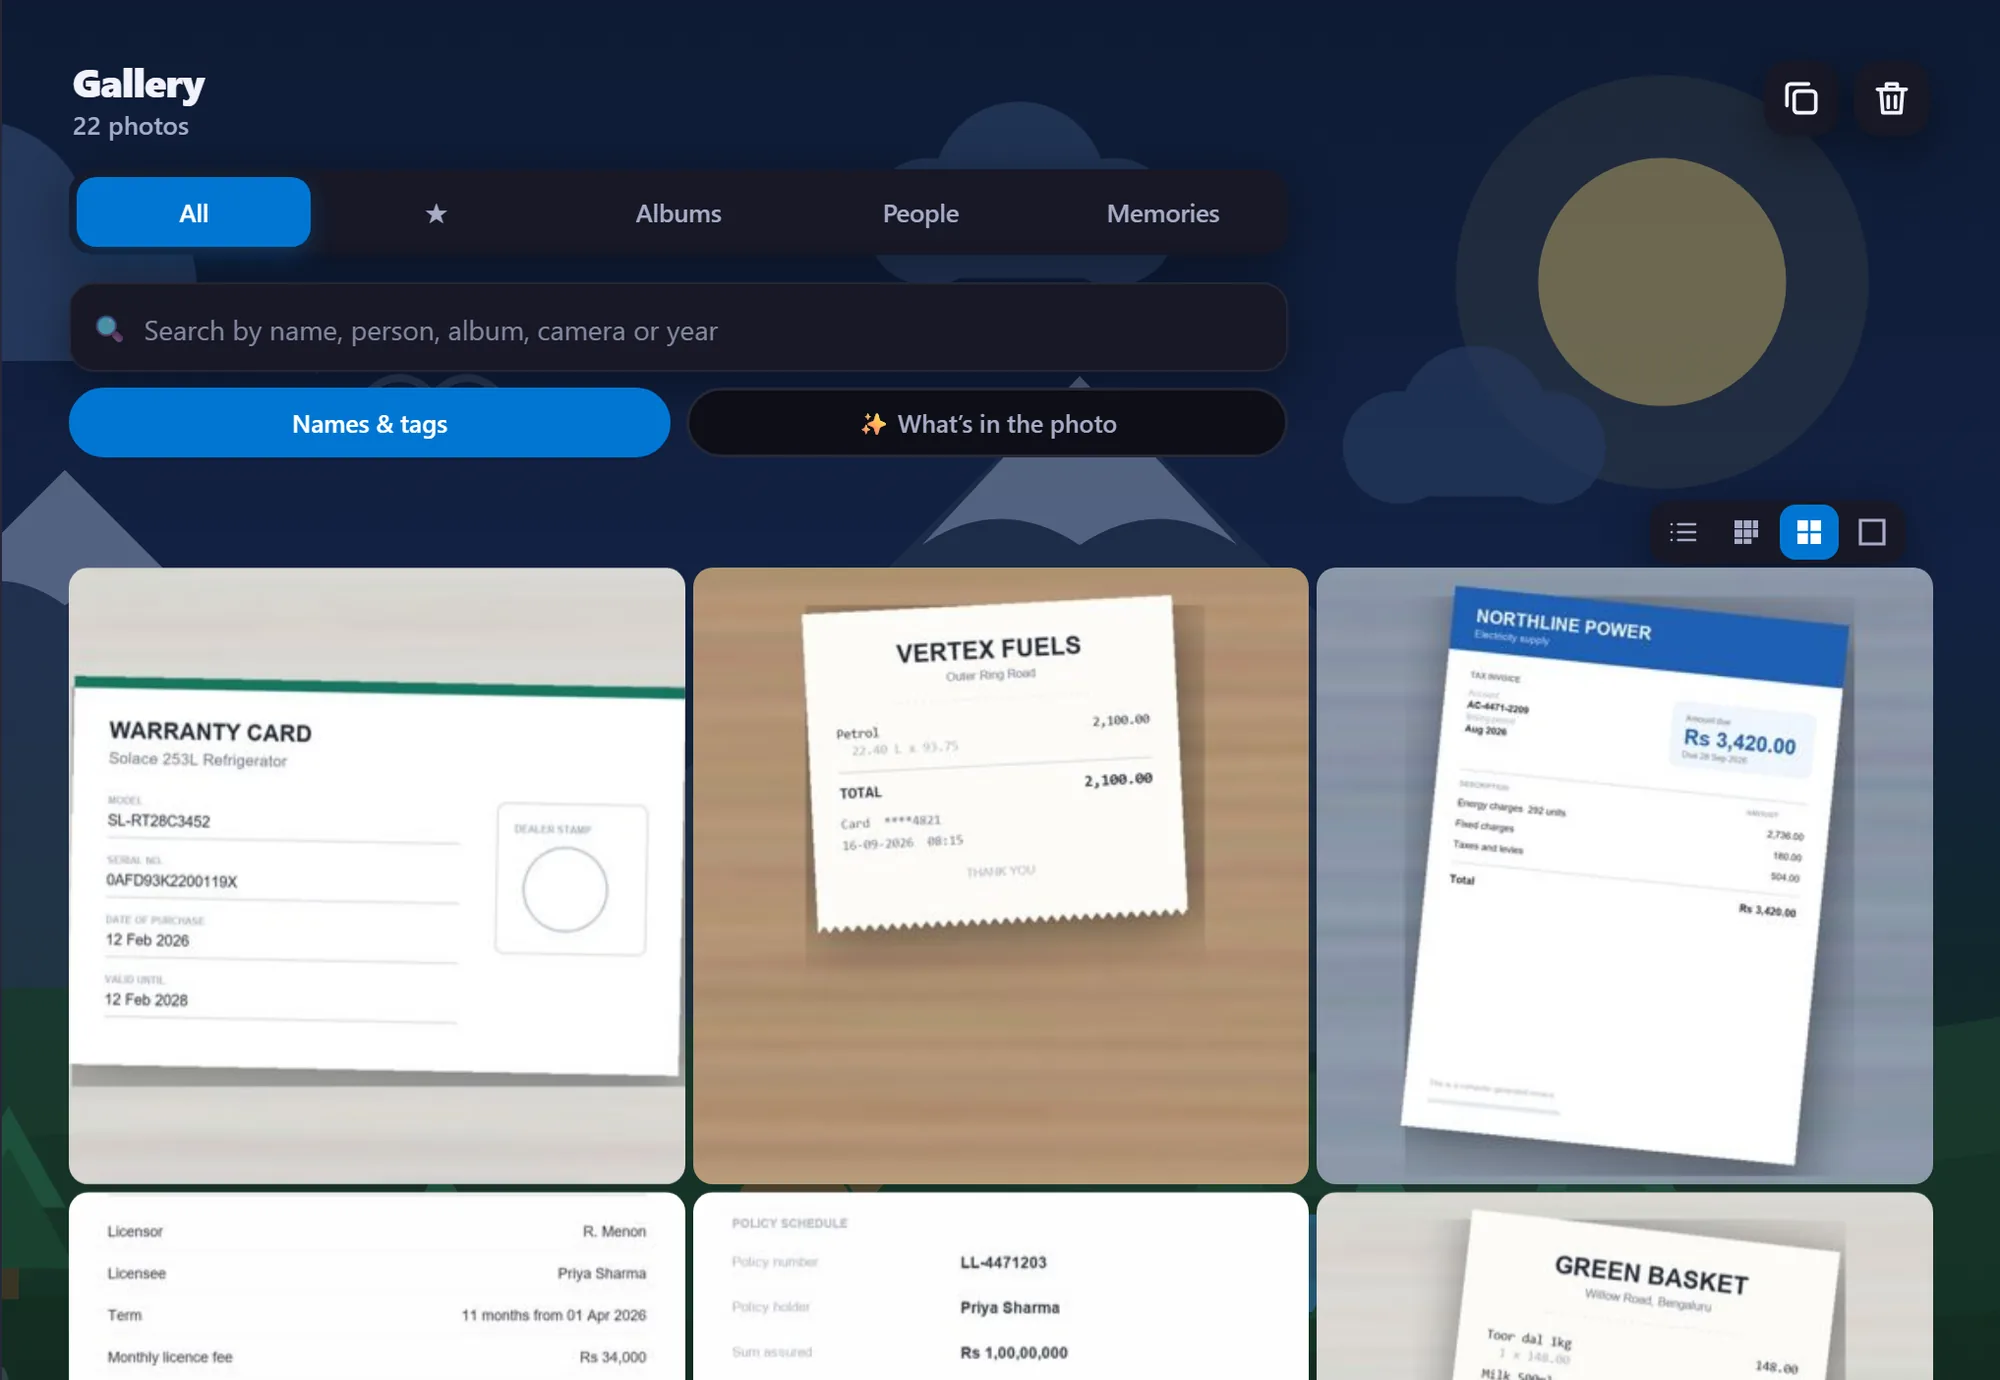
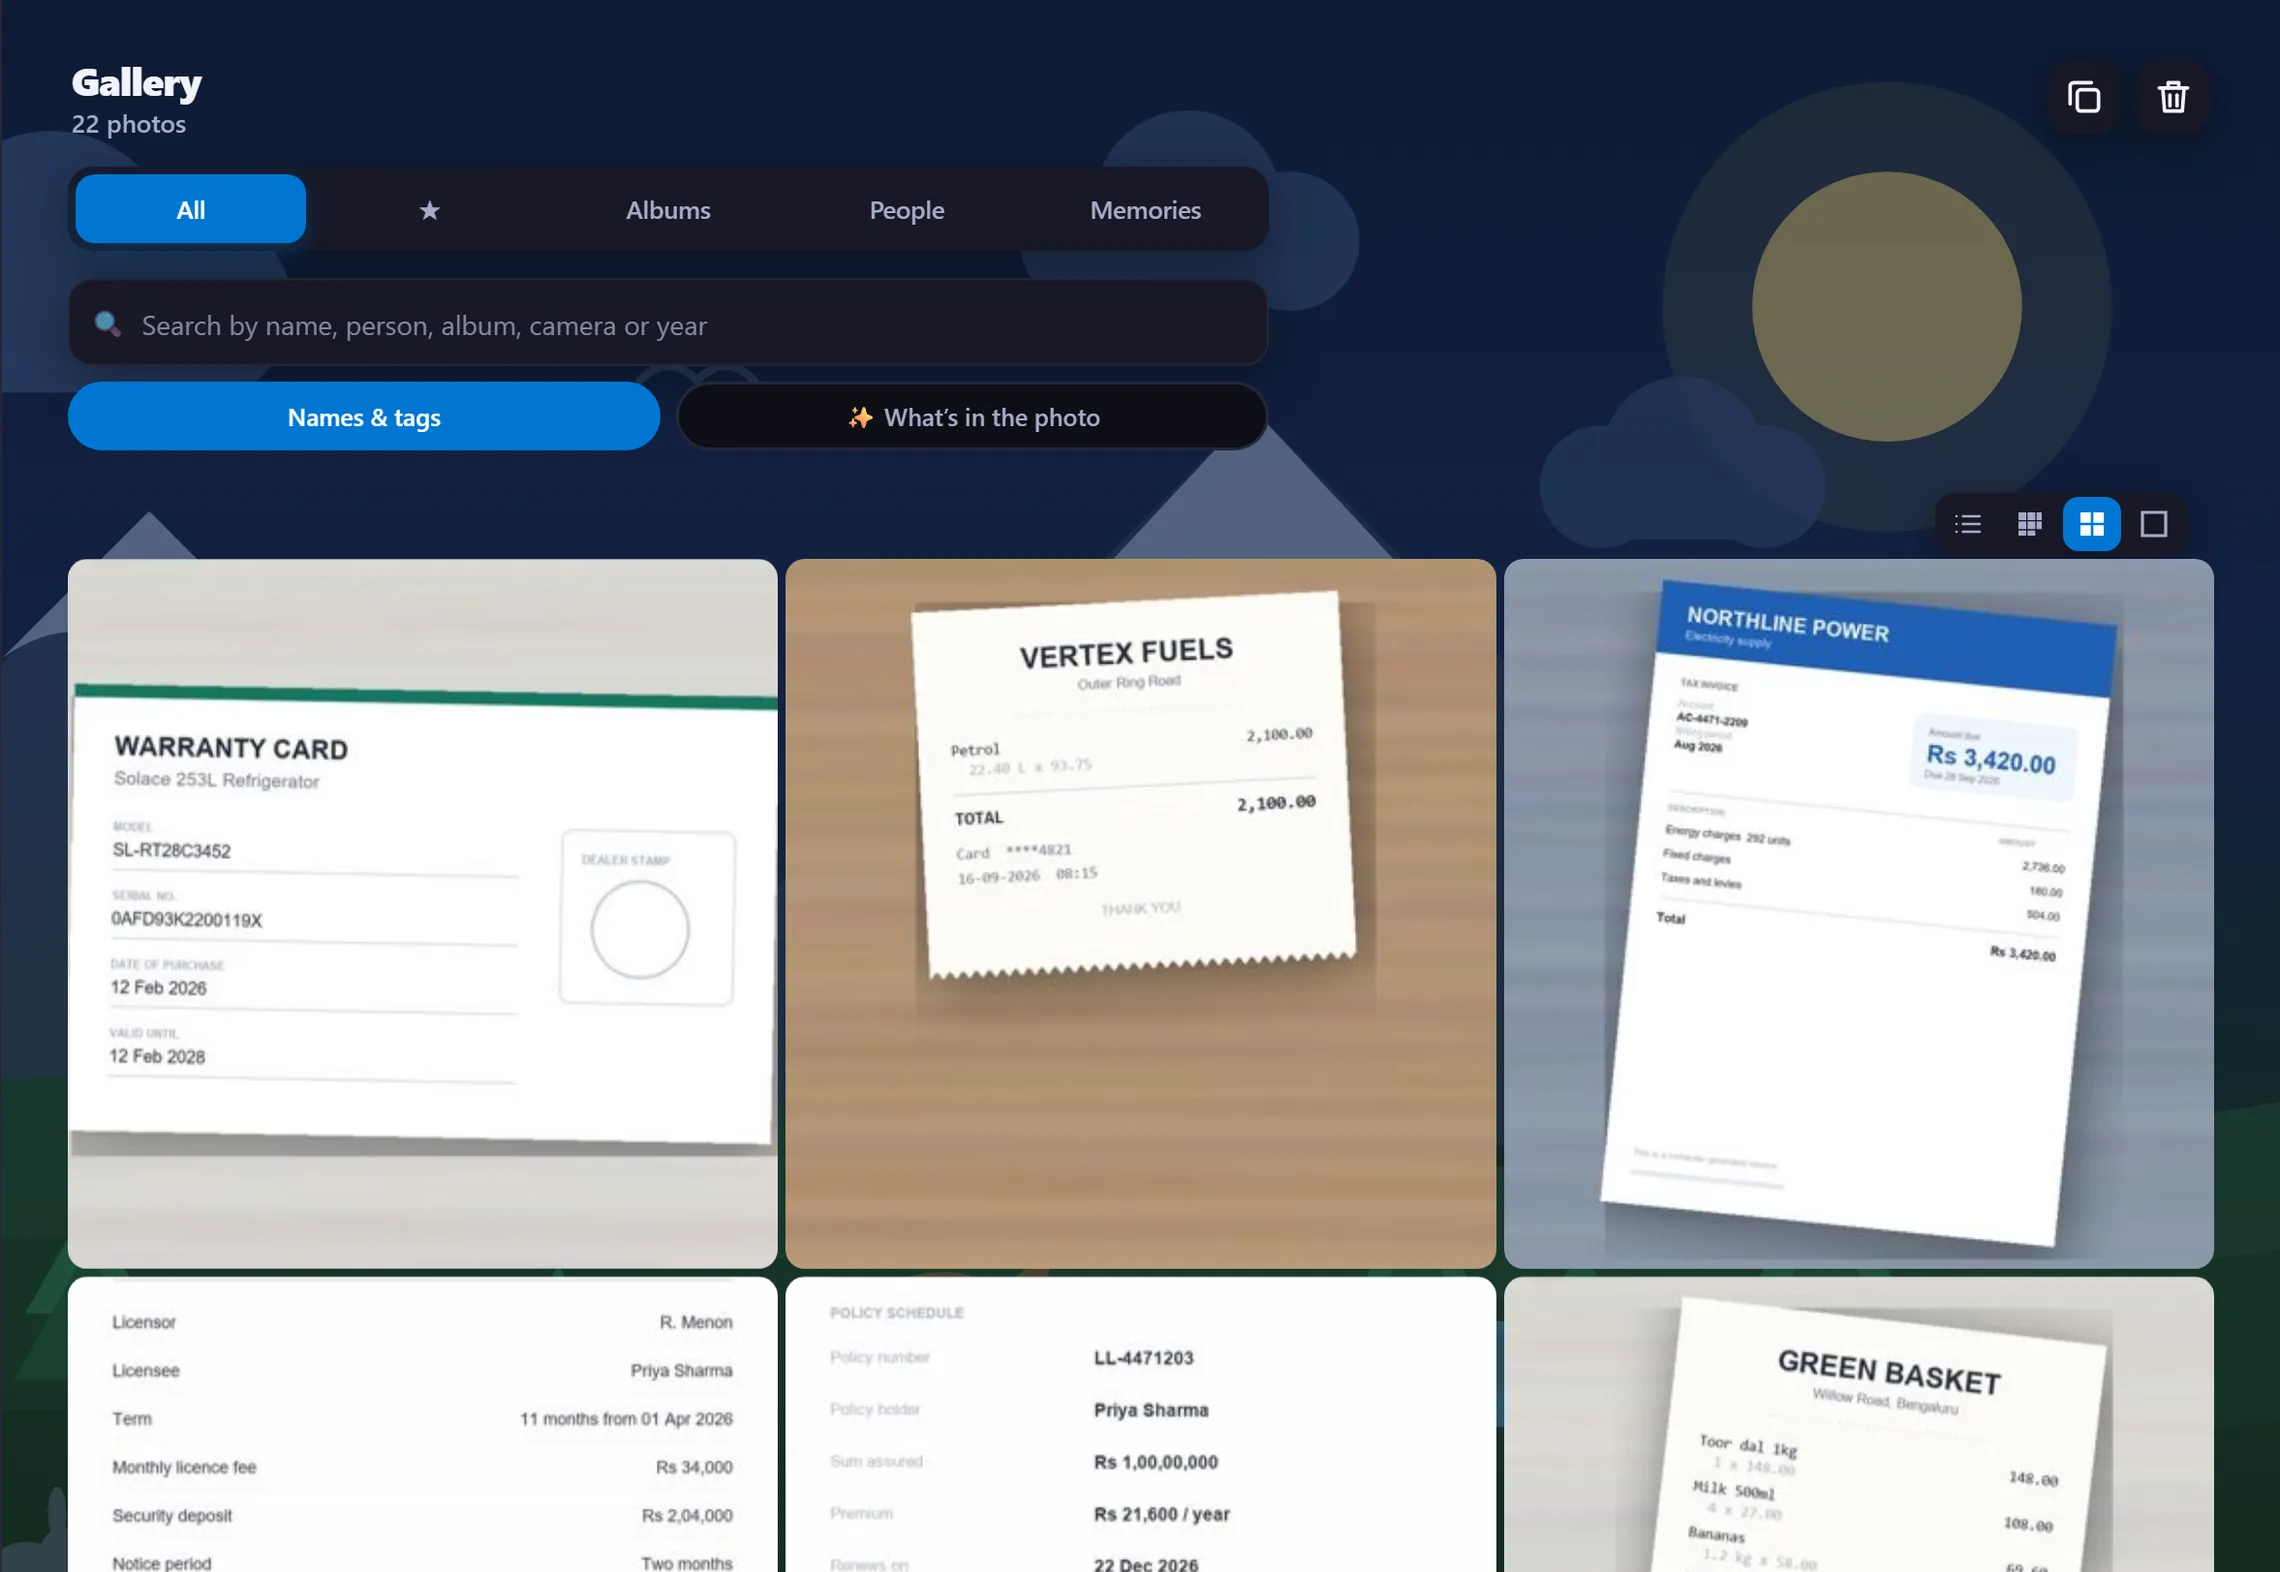
Fix the screenshots properly: no nav anywhere, no scenery, full screens
The dashboard was still wrong and it was the worst one to get wrong, because it
is the first tab a visitor opens. I had deliberately excluded it from the
navigation crop on the reasoning that "the whole application is the subject
there" — so the single image most people see was the one still showing Users &
Admin, Licences, Masters and Email / SMTP down its left edge, under a
full-width cartoon forest. That reasoning was wrong: internal administration is
not the product, and it is not what anyone is evaluating.

Four changes.

NAV, EVERYWHERE. The crop now applies to all seven screens. It is also cropped
as a fixed 526 device pixels rather than 20.5% of the frame, because the
navigation is a fixed 263 CSS px — measuring it as a proportion was correct
only for the capture size it was measured at, and silently wrong the moment the
viewport changed.

SCENERY. The dashboard opens on a full-width decorative scene, so shooting it
from the top photographed the scenery instead of the product. Captures can now
scroll before the shot. The first attempt at this did nothing: it set scrollTop
on BODY, which is not the scroller even though it reports overflow. 300px puts
the frame on "Safe to spend today Rs 6,054" and the eight due bills with their
Pay buttons — 430px overshot and threw away the strongest number on the screen.

EMPTY SCREENS. Vault had 7 rows and insurance 3, so the bottom third of both
was bare and the app's backdrop filled it. Fixed by adding more of what a
[…]

diff --git a/backend/storefront/index-nova.html b/backend/storefront/index-nova.html
@@ -347,7 +347,7 @@ section.band-2{background:var(--band-2)}
 }
 .shot-tab:hover{border-color:var(--blue); color:var(--blue)}
 .shot-tab.on{background:var(--blue); color:#fff; border-color:var(--blue); font-weight:500}
-#shot-stage{max-width:1020px; margin-inline:auto}
+#shot-stage{max-width:1120px; margin-inline:auto}
 
 /* ===================================================================
    STEPS
@@ -557,7 +557,7 @@ footer .brand-word i{color:#79b0f7}
     </div>
     <div class="reveal">
       <div class="frame">
-        <img src="/storefront-img/gallery.webp?v=4" alt="The SafeNest photo library" width="1200" height="760" loading="lazy" />
+        <img src="/storefront-img/gallery.webp?v=5" alt="The SafeNest photo library" width="1200" height="760" loading="lazy" />
       </div>
     </div>
   </div>
@@ -581,7 +581,7 @@ footer .brand-word i{color:#79b0f7}
     </div>
     <div class="reveal">
       <div class="frame">
-        <img src="/storefront-img/documents.webp?v=4" alt="The SafeNest document cabinet" width="1200" height="760" loading="lazy" />
+        <img src="/storefront-img/documents.webp?v=5" alt="The SafeNest document cabinet" width="1200" height="760" loading="lazy" />
       </div>
     </div>
   </div>
@@ -604,7 +604,7 @@ footer .brand-word i{color:#79b0f7}
     </div>
     <div class="reveal">
       <div class="frame">
-        <img src="/storefront-img/expenses.webp?v=4" alt="The SafeNest expense ledger" width="1200" height="760" loading="lazy" />
+        <img src="/storefront-img/expenses.webp?v=5" alt="The SafeNest expense ledger" width="1200" height="760" loading="lazy" />
       </div>
     </div>
   </div>
@@ -869,6 +869,6 @@ footer .brand-word i{color:#79b0f7}
   </div>
 </footer>
 
-<script src="/storefront.js?v=5.3-dark"></script>
+<script src="/storefront.js?v=5.4-shots"></script>
 </body>
 </html>

diff --git a/backend/storefront/index.html b/backend/storefront/index.html
@@ -347,7 +347,7 @@ section.band-2{background:var(--band-2)}
 }
 .shot-tab:hover{border-color:var(--blue); color:var(--blue)}
 .shot-tab.on{background:var(--blue); color:#fff; border-color:var(--blue); font-weight:500}
-#shot-stage{max-width:1020px; margin-inline:auto}
+#shot-stage{max-width:1120px; margin-inline:auto}
 
 /* ===================================================================
    STEPS
@@ -557,7 +557,7 @@ footer .brand-word i{color:#79b0f7}
     </div>
     <div class="reveal">
       <div class="frame">
-        <img src="/storefront-img/gallery.webp?v=4" alt="The SafeNest photo library" width="1200" height="760" loading="lazy" />
+        <img src="/storefront-img/gallery.webp?v=5" alt="The SafeNest photo library" width="1200" height="760" loading="lazy" />
       </div>
     </div>
   </div>
@@ -581,7 +581,7 @@ footer .brand-word i{color:#79b0f7}
     </div>
     <div class="reveal">
       <div class="frame">
-        <img src="/storefront-img/documents.webp?v=4" alt="The SafeNest document cabinet" width="1200" height="760" loading="lazy" />
+        <img src="/storefront-img/documents.webp?v=5" alt="The SafeNest document cabinet" width="1200" height="760" loading="lazy" />
       </div>
     </div>
   </div>
@@ -604,7 +604,7 @@ footer .brand-word i{color:#79b0f7}
     </div>
     <div class="reveal">
       <div class="frame">
-        <img src="/storefront-img/expenses.webp?v=4" alt="The SafeNest expense ledger" width="1200" height="760" loading="lazy" />
+        <img src="/storefront-img/expenses.webp?v=5" alt="The SafeNest expense ledger" width="1200" height="760" loading="lazy" />
       </div>
     </div>
   </div>
@@ -869,6 +869,6 @@ footer .brand-word i{color:#79b0f7}
   </div>
 </footer>
 
-<script src="/storefront.js?v=5.3-dark"></script>
+<script src="/storefront.js?v=5.4-shots"></script>
 </body>
 </html>

diff --git a/backend/storefront/storefront.js b/backend/storefront/storefront.js
@@ -153,7 +153,7 @@ if (tabs && stage) {
 
   const show = (i) => {
     const [label, file, alt] = SCREENS[i];
-    img.src = `/storefront-img/${file}.webp?v=4`;
+    img.src = `/storefront-img/${file}.webp?v=5`;
     img.alt = `${label} — ${alt}`;
     btns.forEach((x, n) => x.classList.toggle('on', n === i));
   };
@@ -166,7 +166,7 @@ if (tabs && stage) {
   // Fetch on hover so the swap feels instant when the click lands.
   tabs.addEventListener('pointerover', (e) => {
     const b = e.target.closest('.shot-tab');
-    if (b) new Image().src = `/storefront-img/${SCREENS[+b.dataset.i][1]}.webp?v=4`;
+    if (b) new Image().src = `/storefront-img/${SCREENS[+b.dataset.i][1]}.webp?v=5`;
   });
 }
 

diff --git a/backend/tools/screenshots/capture_app.py b/backend/tools/screenshots/capture_app.py
@@ -13,24 +13,28 @@ import time
 import urllib.request
 from pathlib import Path
 
+import sys
+
 import websockets
 
 CHROME = r"C:\Program Files\Google\Chrome\Application\chrome.exe"
 PORT = 9240
 BASE = "http://127.0.0.1:8099"
-OUT = Path(__file__).resolve().parent / "shots"
+THEME = sys.argv[1] if len(sys.argv) > 1 else "light"
+OUT = Path(__file__).resolve().parent / ("shots" if THEME == "light" else f"shots-{THEME}")
 PROFILE = r"C:\Users\Pro-TEAM\AppData\Local\Temp\claude\cdp-app"
 
 # label -> (route hash, width, height)
 SHOTS = [
-    ("dashboard", "home", 1280, 860),
-    ("gallery", "gallery", 1280, 860),
-    ("documents", "documents", 1280, 860),
-    ("expenses", "expenses", 1280, 860),
-    ("vault", "vault", 1280, 860),
-    ("investments", "investments", 1280, 860),
-    ("insurance", "insurance", 1280, 860),
-    ("phone-home", "home", 400, 820),
+    # label, route, width, height, scroll (CSS px) before the shot
+    ("dashboard",   "home",        1440, 950, 300),
+    ("gallery",     "gallery",     1440, 950, 0),
+    ("documents",   "documents",   1440, 950, 0),
+    ("expenses",    "expenses",    1440, 950, 0),
+    ("vault",       "vault",       1440, 950, 0),
+    ("investments", "investments", 1440, 950, 0),
+    ("insurance",   "insurance",   1440, 950, 0),
+    ("phone-home",  "home",         400, 820, 380),
 ]
 
 
@@ -63,7 +67,7 @@ async def main():
         [CHROME, "--headless=new", f"--remote-debugging-port={PORT}",
          f"--user-data-dir={PROFILE}", "--no-first-run", "--disable-gpu",
          "--hide-scrollbars", "--force-device-scale-factor=2",
-         "--window-size=1280,900", "about:blank"],
+         "--window-size=1500,1010", "about:blank"],
         stdout=subprocess.DEVNULL, stderr=subprocess.DEVNULL)
     try:
         async with websockets.connect(tgt(), max_size=200_000_000) as ws:
@@ -89,8 +93,10 @@ async def main():
             await send("Page.navigate", url=BASE + "/")
             await asyncio.sleep(4)
             await ev(f"localStorage.setItem('finmate.token', {json.dumps(tok)})")
+            # theme is a real persisted user setting, so either one is honest
+            await ev(f"localStorage.setItem('finmate.theme', {json.dumps(THEME)})")
 
-            for label, route, w, h in SHOTS:
+            for label, route, w, h, scroll in SHOTS:
                 # Device metrics per shot so the phone frames get a real phone
                 # viewport, not a desktop layout squeezed into a narrow window.
                 await send("Emulation.setDeviceMetricsOverride", width=w, height=h,
@@ -108,6 +114,20 @@ async def main():
                         "if(hit){hit.click();return 'clicked'} return 'NOT FOUND'})()")
                     print(f"     nav {route}: {clicked}")
                     await asyncio.sleep(4)
+                if scroll:
+                    moved = await ev(
+                        "(() => {const y=" + str(scroll) + ";"
+                        "const all=[...document.querySelectorAll('*')]"
+                        ".filter(e=>e.scrollHeight-e.clientHeight>200);"
+                        "all.sort((a,b)=>(b.scrollHeight-b.clientHeight)-(a.scrollHeight-a.clientHeight));"
+                        "let el=all[0];"
+                        "if(el&&el!==document.body&&el!==document.documentElement){"
+                        "el.scrollTop=y; return (el.className||el.tagName)+' -> '+el.scrollTop}"
+                        "(document.scrollingElement||document.documentElement).scrollTop=y;"
+                        "window.scrollTo(0,y);"
+                        "return 'window -> '+(document.scrollingElement||{}).scrollTop})()")
+                    print(f"     scrolled {scroll}px in {moved}")
+                    await asyncio.sleep(1.4)
                 r = await send("Page.captureScreenshot", format="png")
                 f = OUT / f"{label}.png"
                 f.write_bytes(base64.b64decode(r["data"]))

diff --git a/backend/tools/screenshots/prep_images.py b/backend/tools/screenshots/prep_images.py
@@ -28,13 +28,18 @@ SRC = Path(__file__).resolve().parent / ("shots" if THEME == "light" else f"shot
 DST = Path(__file__).resolve().parents[2] / "storefront" / "img"
 DST.mkdir(parents=True, exist_ok=True)
 
-# Fraction of the frame taken by the left navigation, measured off the captures
-# (526px of 2560 in every one of them) rather than guessed.
-NAV = 0.2055
+# The left navigation is a FIXED CSS width (263px), not a share of the frame,
+# so it is cropped as device pixels: 263 * the capture's scale factor of 2.
+# Measuring it as a percentage was wrong the moment the capture viewport
+# changed.
+NAV_PX = 526
 
-# Shots whose subject is one screen: drop the nav. The dashboard is not here,
-# because for that one the whole application IS the subject.
-CROP_NAV = {"gallery", "documents", "expenses", "vault", "investments", "insurance"}
+# EVERY shot loses the navigation, the dashboard included. Keeping it there
+# was a mistake: the dashboard is the first tab a visitor opens, so the one
+# image most people see was the one still showing "Users & Admin", "Licences",
+# "Masters" and "Email / SMTP" -- internal administration, not the product.
+CROP_NAV = {"dashboard", "gallery", "documents", "expenses",
+            "vault", "investments", "insurance"}
 
 # Dropping a fifth of the width takes the frame from 1.49 to 1.18, which beside
 # a column of text is a tall thin slab. Trimming the bottom back to a landscape
@@ -44,14 +49,14 @@ ASPECT = 1.45
 
 # name -> width it is actually rendered at, doubled for retina
 WANT = {
-    "dashboard": 1200,
-    "gallery": 1000,
-    "documents": 1000,
-    "expenses": 1000,
-    "vault": 1000,
-    "investments": 1000,
-    "insurance": 1000,
-    "phone-home": 420,
+    "dashboard": 1140,
+    "gallery": 1140,
+    "documents": 1140,
+    "expenses": 1140,
+    "vault": 1140,
+    "investments": 1140,
+    "insurance": 1140,
+    "phone-home": 430,
 }
 
 total_before = total_after = 0
@@ -62,7 +67,7 @@ for name, w in WANT.items():
         continue
     im = Image.open(src).convert("RGB")
     if name in CROP_NAV:
-        im = im.crop((round(im.width * NAV), 0, im.width, im.height))
+        im = im.crop((NAV_PX, 0, im.width, im.height))
         keep = min(im.height, round(im.width / ASPECT))
         im = im.crop((0, 0, im.width, keep))
     target = w * 2

diff --git a/backend/tools/screenshots/seed_all.py b/backend/tools/screenshots/seed_all.py
@@ -150,6 +150,12 @@ post_many("/api/insurance", [
      "premium": 21600, "sum_assured": 10000000, "frequency": "yearly", "renewal_date": ahead(96)},
     {"provider": "Harbour General", "policy_no": "HG-2209417", "policy_type": "Motor",
      "premium": 14200, "sum_assured": 900000, "frequency": "yearly", "renewal_date": ahead(12)},
+    {"provider": "Harbour General", "policy_no": "HG-7741208", "policy_type": "Home",
+     "premium": 9800, "sum_assured": 4500000, "frequency": "yearly", "renewal_date": ahead(57)},
+    {"provider": "Sentinel Health", "policy_no": "SH-2261044", "policy_type": "Personal accident",
+     "premium": 4200, "sum_assured": 2500000, "frequency": "yearly", "renewal_date": ahead(81)},
+    {"provider": "Harbour General", "policy_no": "HG-9930571", "policy_type": "Two-wheeler",
+     "premium": 3100, "sum_assured": 120000, "frequency": "yearly", "renewal_date": ahead(124)},
 ], "insurance")
 
 # ------------------------------------------------------------ investments
@@ -185,6 +191,22 @@ post_many("/api/vault", [
      "category": "Home", "password": "kitchen-window-42"},
     {"title": "Locker PIN — bank", "username": "Locker 214",
      "category": "Bank", "password": "7712"},
+    # A screen with seven rows on it photographs two thirds empty, and the
+    # app's decorative backdrop fills the gap. Enough rows to fill the frame.
+    {"title": "Gas connection portal", "username": "priya.sharma",
+     "category": "Utilities", "password": "Gk3!wqnZ71"},
+    {"title": "Municipal tax account", "username": "PID-4471-22",
+     "category": "Government", "password": "Mx8@trbY35"},
+    {"title": "Mutual fund portal", "username": "priya@example.com",
+     "category": "Finance", "password": "Fv6#qzlK80"},
+    {"title": "Bank net banking", "username": "priyash4417",
+     "category": "Bank", "password": "Nb1$xmwQ26"},
+    {"title": "Insurance portal", "username": "priya.sharma",
+     "category": "Insurance", "password": "Ip5%crtV93"},
+    {"title": "Passport seva", "username": "priya.sharma",
+     "category": "Government", "password": "Ps2^dfgH64"},
+    {"title": "Society gate app", "username": "A-1102",
+     "category": "Home", "password": "Sg9&hjkL17"},
 ], "vault")
 
 # -------------------------------------------------------------- reminders
